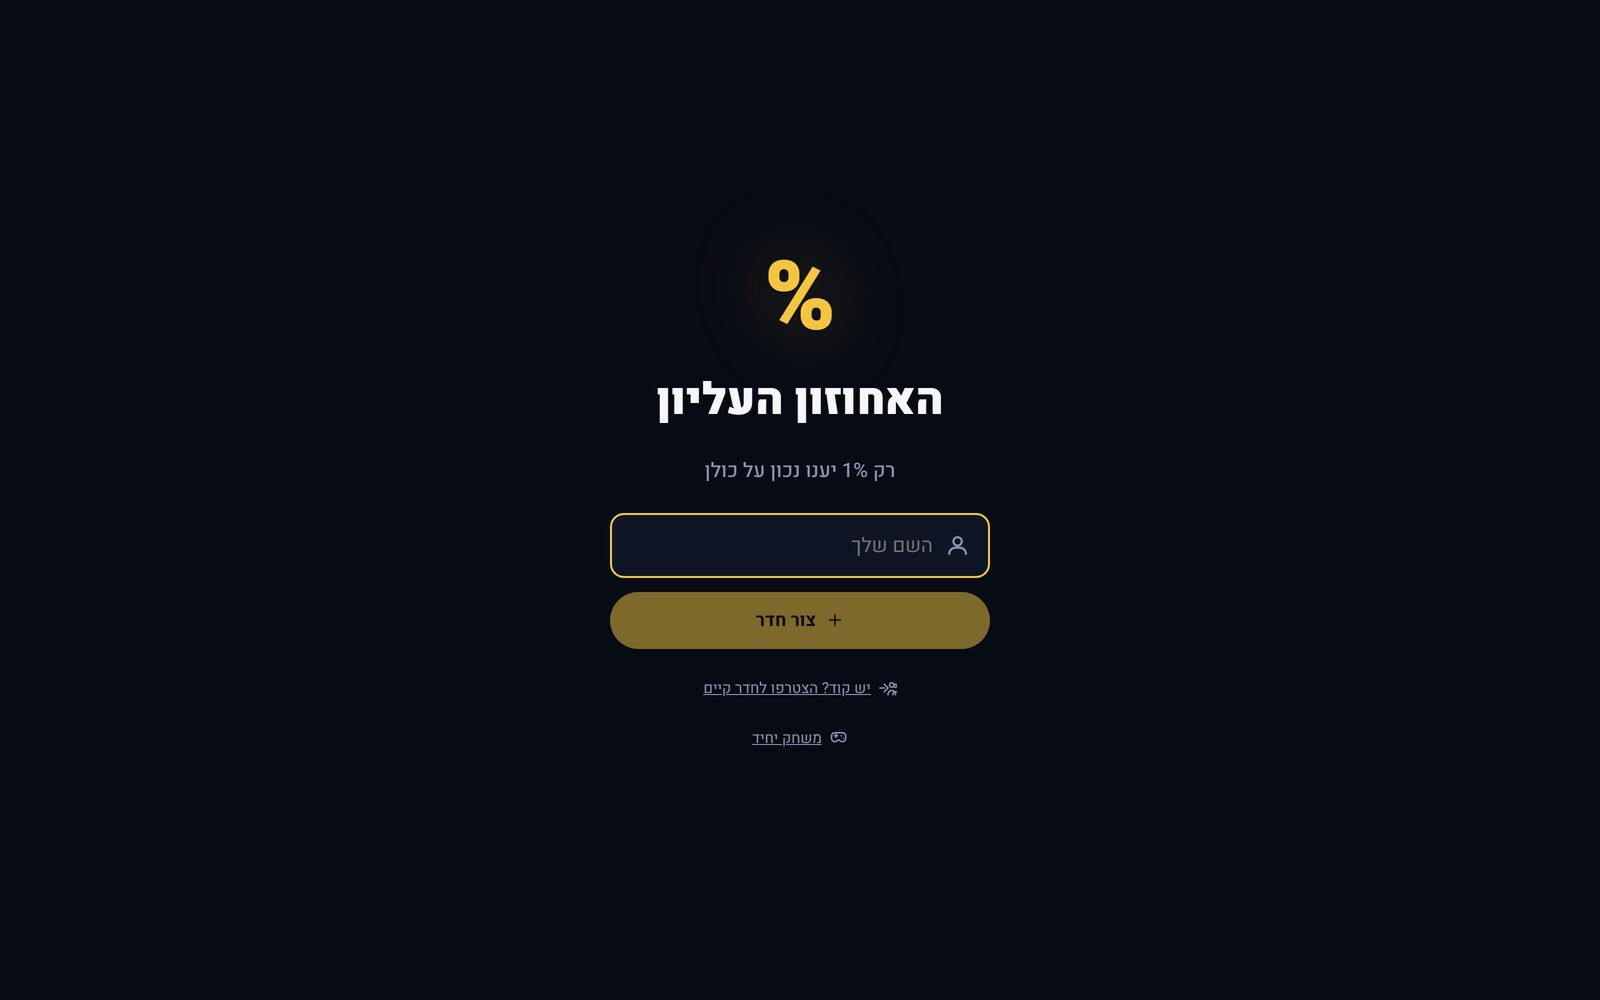
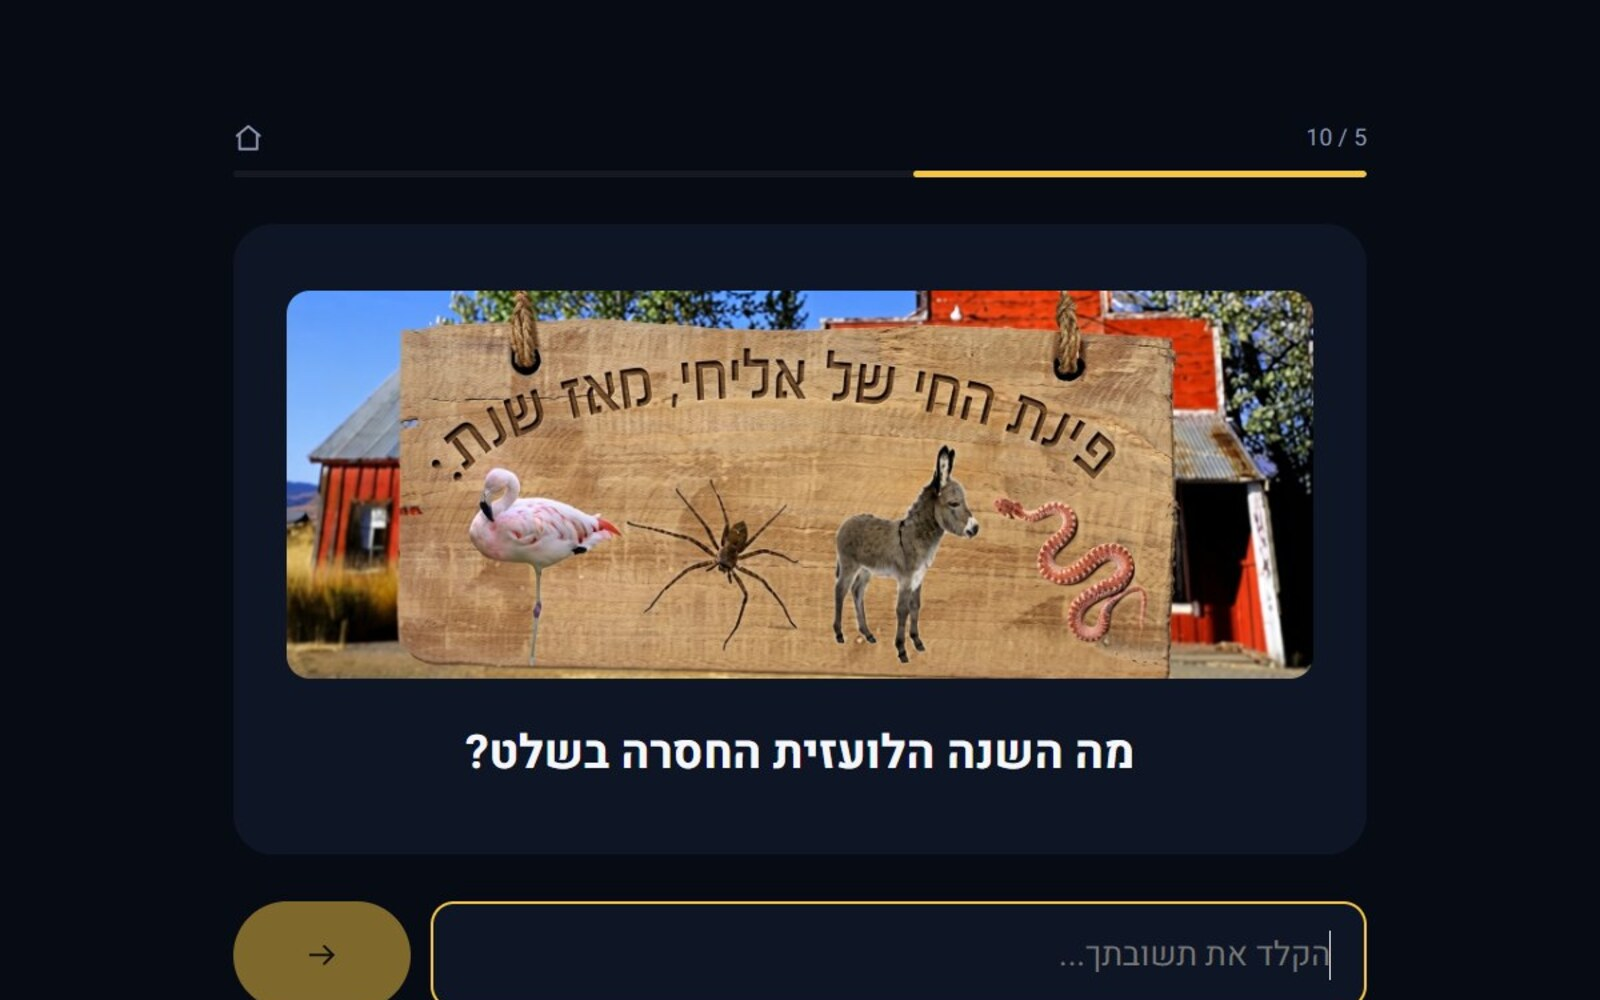
fix: show the question screen on the One Percent card
Replace the join-screen screenshot with a question in play, cropped to the app, and version the URL so the old image is not served from cache.

diff --git a/index.html b/index.html
@@ -232,7 +232,7 @@
 
         <article class="product-card" data-reveal>
           <figure class="frame">
-            <img src="assets/img/apps/onepercent.jpg" width="1600" height="1000" alt="The Top One Percent Club join screen with its percent logo." loading="lazy" decoding="async" />
+            <img src="assets/img/apps/onepercent.jpg?v=20261020b" width="1600" height="1000" alt="A question from The Top One Percent Club: a Hebrew riddle asking which year is missing from a painted barn sign." loading="lazy" decoding="async" />
           </figure>
           <p class="app-meta"><span>Party trivia</span><span class="status">Live</span></p>
           <h3><a href="https://onepercent.danieliyahu.com/" target="_blank" rel="noopener noreferrer">The Top One Percent Club</a></h3>
